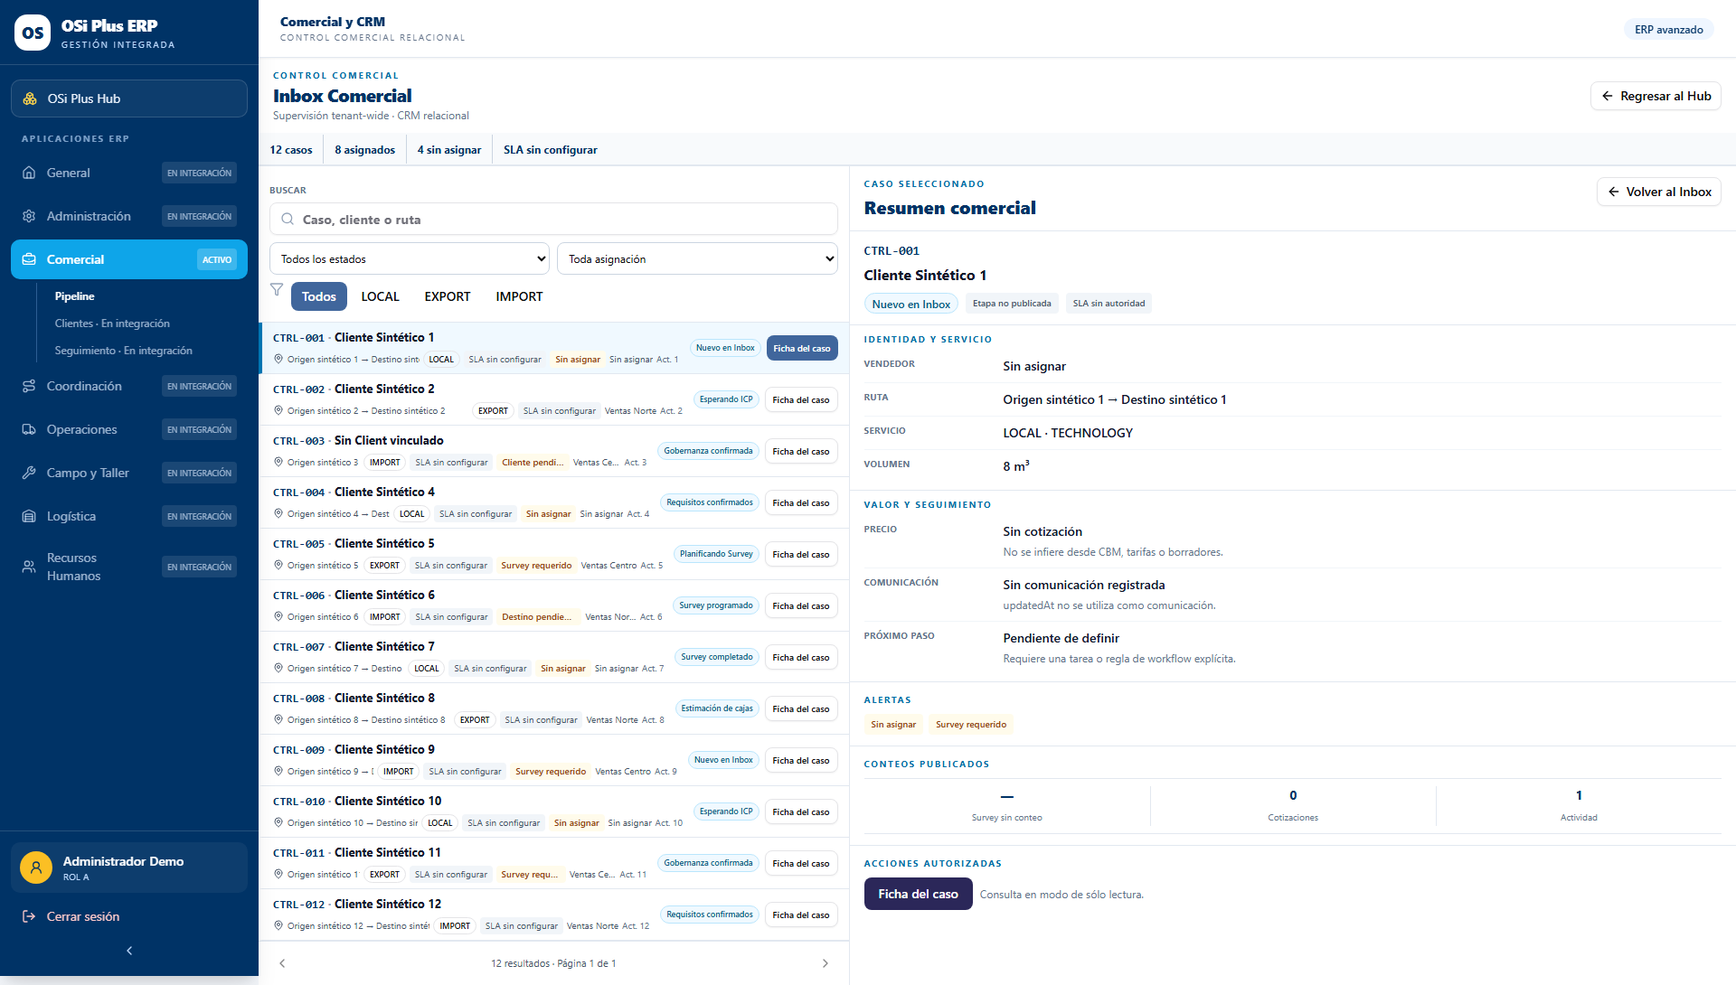
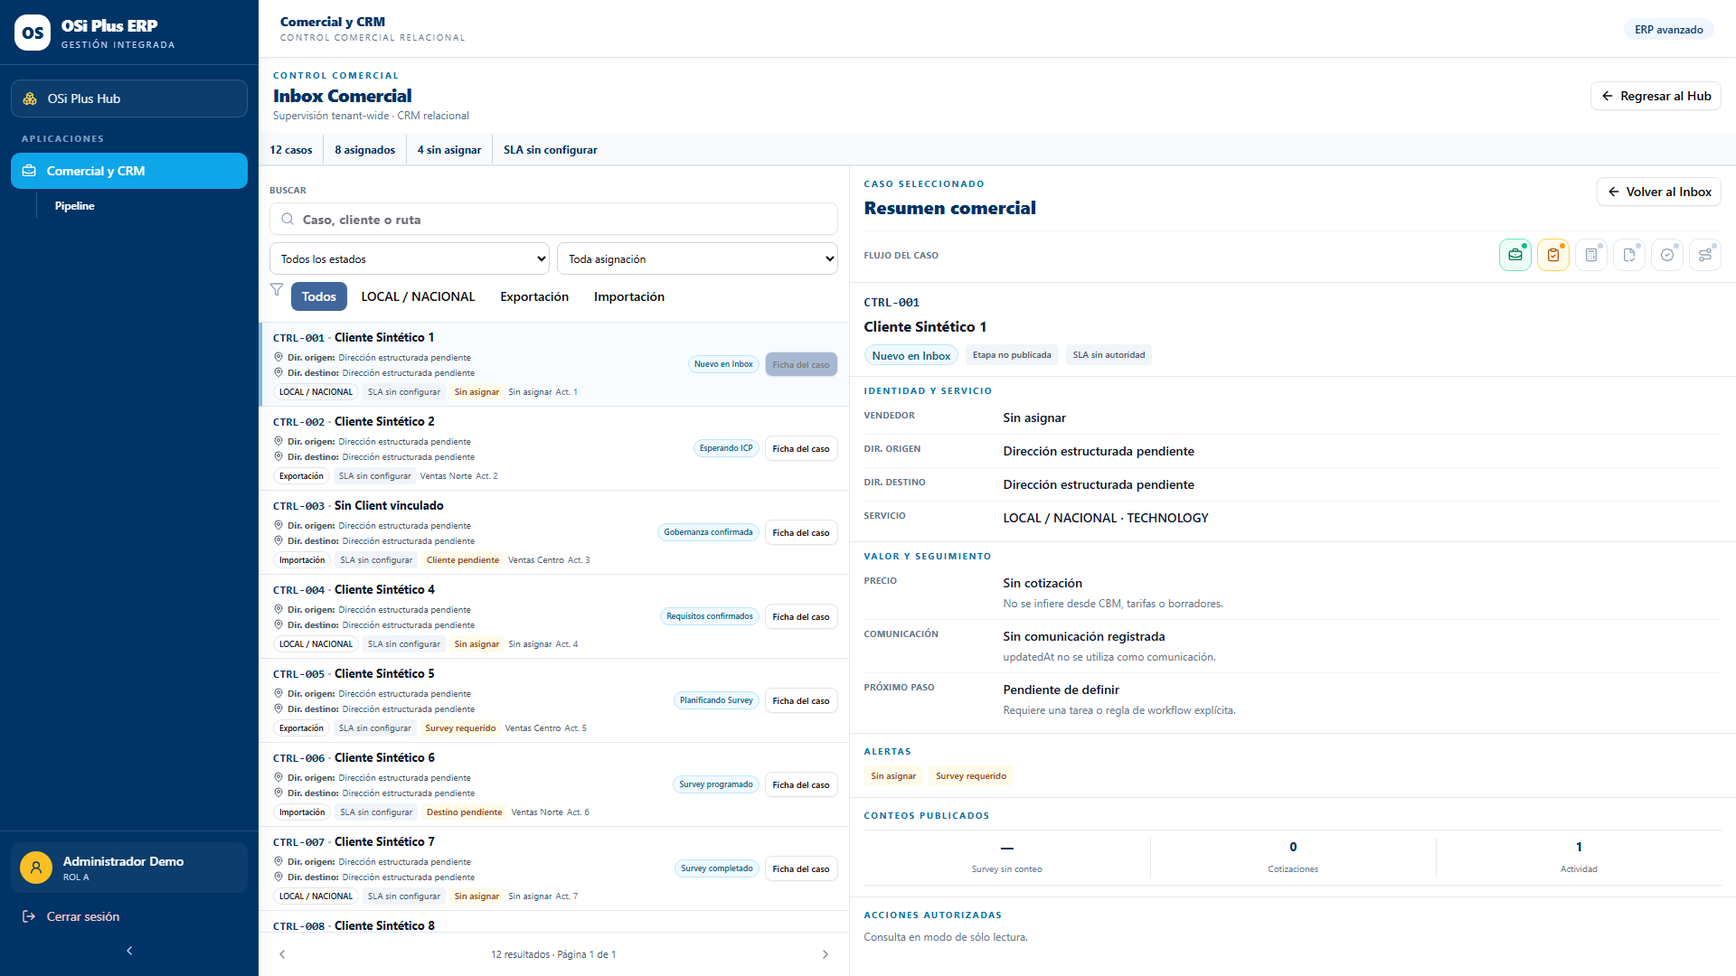
feat(crm): keep case summary fixed with progress stages

diff --git a/src/commercial-crm/CommercialInboxModule.tsx b/src/commercial-crm/CommercialInboxModule.tsx
@@ -1,5 +1,5 @@
 import { lazy, Suspense, useCallback, useEffect, useLayoutEffect, useMemo, useRef, useState } from "react";
-import { AlertCircle, ArrowLeft, BellRing, ChevronLeft, ChevronRight, Filter, MapPin, Pencil, Plus, Search, TriangleAlert } from "lucide-react";
+import { AlertCircle, ArrowLeft, BadgeCheck, BellRing, BriefcaseBusiness, Calculator, ChevronLeft, ChevronRight, ClipboardCheck, FileCheck2, Filter, MapPin, Pencil, Plus, Route, Search, TriangleAlert, type LucideIcon } from "lucide-react";
 import { Alert, AlertDescription, AlertTitle } from "@/components/ui/alert";
 import { Badge } from "@/components/ui/badge";
 import { Button } from "@/components/ui/button";
@@ -72,7 +72,6 @@ type AlertableCase = Readonly<{
   owner: unknown | null;
   requiresSurvey: boolean;
   destinationLocation: string | null;
-  estimatedCbm: number | null;
 }>;
 
 function factualAlerts(item: AlertableCase) {
@@ -81,12 +80,7 @@ function factualAlerts(item: AlertableCase) {
     !item.owner ? "Sin asignar" : null,
     item.requiresSurvey ? "Survey requerido" : null,
     !item.destinationLocation ? "Destino pendiente" : null,
-    item.estimatedCbm === null || item.estimatedCbm <= 0 ? "Volumen pendiente" : null,
   ].filter((value): value is string => Boolean(value));
-}
-
-function formatCbm(value: number | null) {
-  return value === null || value <= 0 ? "Pendiente de Survey o datos proporcionados" : `${new Intl.NumberFormat("es-DO", { maximumFractionDigits: 2 }).format(value)} m³`;
 }
 
 function SummaryStrip({ value, role }: { value: CrmPipelineSummary | null; role: string }) {
@@ -161,29 +155,71 @@ function SummaryRow({ label, value, note }: { label: string; value: string; note
   return <div className="grid gap-1 border-b border-slate-100 py-2 last:border-b-0 sm:grid-cols-[150px_minmax(0,1fr)]"><dt className="text-[10px] font-bold uppercase tracking-wide text-slate-500">{label}</dt><dd className="min-w-0 text-sm font-semibold text-slate-900"><span className="break-words">{value}</span>{note && <span className="mt-0.5 block text-xs font-normal leading-5 text-slate-500">{note}</span>}</dd></div>;
 }
 
-function CaseSummaryPanel({ state, mutationEnvironmentEnabled, mutationAccess, mutationApi, onClear, onReload }: {
+type ProgressTone = "complete" | "current" | "attention" | "pending";
+type ProgressStage = Readonly<{ label: string; state: string; tone: ProgressTone; icon: LucideIcon; count?: number }>;
+const STATUS_INDEX = Object.freeze(Object.fromEntries(PIPELINE_CASE_STATUSES.map((status, index) => [status, index])) as Record<PipelineCaseStatus, number>);
+const PROGRESS_TONE_CLASS: Record<ProgressTone, string> = {
+  complete: "border-emerald-300 bg-emerald-50 text-emerald-700",
+  current: "border-sky-400 bg-sky-50 text-sky-700 ring-2 ring-sky-100",
+  attention: "border-amber-300 bg-amber-50 text-amber-700",
+  pending: "border-slate-200 bg-white text-slate-400",
+};
+
+function reached(status: PipelineCaseStatus, checkpoint: PipelineCaseStatus) {
+  return STATUS_INDEX[status] >= STATUS_INDEX[checkpoint];
+}
+
+function progressStages(item: CrmPipelineCaseDetail): readonly ProgressStage[] {
+  const surveyComplete = reached(item.status, "SURVEY_COMPLETED");
+  const costingComplete = reached(item.status, "QUOTE_DRAFT");
+  const quoteComplete = item.quoteCount > 0;
+  const approved = ["WON", "APPROVED", "OPS_HANDOFF"].includes(item.status);
+  return [
+    { label: "Servicios", state: item.serviceType ? "Definido" : "Requiere definición", tone: item.serviceType ? "complete" : "attention", icon: BriefcaseBusiness },
+    { label: "Survey", state: !item.requiresSurvey ? "No requerido" : surveyComplete ? "Completado" : ["SURVEY_PLANNING", "SURVEY_SCHEDULED"].includes(item.status) ? "En curso" : "Requerido", tone: !item.requiresSurvey || surveyComplete ? "complete" : ["SURVEY_PLANNING", "SURVEY_SCHEDULED"].includes(item.status) ? "current" : "attention", icon: ClipboardCheck },
+    { label: "Costos", state: costingComplete ? "Confirmados" : item.status === "PRICING_IN_PROGRESS" ? "En preparación" : "Pendientes", tone: costingComplete ? "complete" : item.status === "PRICING_IN_PROGRESS" ? "current" : "pending", icon: Calculator },
+    { label: "Cotización", state: quoteComplete ? `${item.quoteCount} de 3 propuesta${item.quoteCount === 1 ? "" : "s"}` : ["QUOTE_DRAFT", "INTERNAL_REVIEW", "QUOTE_SENT", "NEGOTIATION"].includes(item.status) ? "En curso" : "Pendiente", tone: quoteComplete ? "complete" : ["QUOTE_DRAFT", "INTERNAL_REVIEW", "QUOTE_SENT", "NEGOTIATION"].includes(item.status) ? "current" : "pending", icon: FileCheck2, count: item.quoteCount || undefined },
+    { label: "Aprobación", state: approved ? "Aprobada" : ["QUOTE_SENT", "NEGOTIATION"].includes(item.status) ? "En decisión" : "Pendiente", tone: approved ? "complete" : ["QUOTE_SENT", "NEGOTIATION"].includes(item.status) ? "current" : "pending", icon: BadgeCheck },
+    { label: "Coordinación", state: item.status === "OPS_HANDOFF" ? "Entregada" : item.status === "APPROVED" ? "Lista para coordinar" : "Pendiente", tone: item.status === "OPS_HANDOFF" ? "complete" : item.status === "APPROVED" ? "current" : "pending", icon: Route },
+  ];
+}
+
+function CaseProgressHeader({ item, onOpenCase }: { item: CrmPipelineCaseDetail; onOpenCase(caseRef: string): void }) {
+  if (["LOST", "OPS_HANDOFF"].includes(item.status)) return null;
+  return <div data-testid="commercial-case-progress" className="flex min-w-0 items-center gap-1.5 overflow-x-auto" role="list" aria-label="Etapas del caso abierto">
+    {progressStages(item).map(({ label, state, tone, icon: Icon, count }) => <span key={label} role="listitem"><button type="button" title={`${label}: ${state}`} aria-label={`${label}: ${state}. Ver en la Ficha del Caso`} onClick={() => onOpenCase(item.caseRef)} className={`relative grid h-9 w-9 shrink-0 place-items-center rounded-lg border transition-colors hover:brightness-95 ${PROGRESS_TONE_CLASS[tone]}`}>
+        <Icon className="h-4 w-4" aria-hidden="true" />
+        <span className={`absolute right-1 top-1 h-1.5 w-1.5 rounded-full ${tone === "complete" ? "bg-emerald-500" : tone === "current" ? "bg-sky-500" : tone === "attention" ? "bg-amber-500" : "bg-slate-300"}`} aria-hidden="true" />
+        {count !== undefined && <span className="absolute -bottom-1 -right-1 min-w-4 rounded-full bg-[#003366] px-1 text-center text-[9px] font-black leading-4 text-white" aria-hidden="true">{count}</span>}
+      </button></span>)}
+  </div>;
+}
+
+function CaseSummaryPanel({ state, mutationEnvironmentEnabled, mutationAccess, mutationApi, onClear, onReload, onOpenCase }: {
   state: DetailState;
   mutationEnvironmentEnabled: boolean;
   mutationAccess: CrmCaseMutationUiAccess;
   mutationApi: CrmCaseMutationApi;
   onClear(): void;
   onReload(): void;
+  onOpenCase(caseRef: string): void;
 }) {
   const [editOpen, setEditOpen] = useState(false);
   const item = state.value;
   const alerts = item ? factualAlerts(item) : [];
   const canEdit = Boolean(item && mutationEnvironmentEnabled && !["APPROVED", "OPS_HANDOFF"].includes(item.status) && (mutationAccess.canUpdateAny || (mutationAccess.canUpdateOwn && item.owner?.isCurrentActor)));
   const initial = useMemo<CrmCaseFields | undefined>(() => item ? ({ clientRef: item.client?.clientRef || null, mode: item.mode || "LOCAL", serviceType: item.serviceType || "", customerType: (item.customerType || "L4_PERSONAL") as CrmCaseFields["customerType"], estimatedCbm: item.estimatedCbm || 0, requiresSurvey: item.requiresSurvey, surveyMethod: (item.surveyMethod || "NO_APLICA") as CrmCaseFields["surveyMethod"], originLocation: item.originLocation || "", destinationLocation: item.destinationLocation || "", destinationContracted: item.destinationContracted ?? true }) : undefined, [item]);
-  return <section data-testid="commercial-case-summary" className="min-h-full bg-white" aria-labelledby="case-summary-heading">
+  return <section data-testid="commercial-case-summary" className="h-full overflow-y-auto bg-white" aria-labelledby="case-summary-heading">
     <header className="flex flex-wrap items-start justify-between gap-3 border-b border-slate-200 px-4 py-3">
       <div><p className="text-[10px] font-bold uppercase tracking-[.18em] text-[#0070a8]">Caso seleccionado</p><h2 id="case-summary-heading" className="mt-1 text-xl font-black text-[#003366]">Resumen comercial</h2></div>
       <Button size="sm" variant="outline" onClick={onClear}><ArrowLeft />Volver al Inbox</Button>
+      {item && <div className="flex w-full items-center justify-between gap-3 border-t border-slate-100 pt-2"><p className="shrink-0 text-[10px] font-bold uppercase tracking-wide text-slate-500">Flujo del caso</p><CaseProgressHeader item={item} onOpenCase={onOpenCase} /></div>}
     </header>
     {state.loading && <div className="grid min-h-[40vh] place-items-center text-sm text-slate-500">Cargando resumen autorizado…</div>}
     {state.error && <Alert variant="destructive" role="alert" className="m-4"><AlertCircle /><AlertTitle>{state.error.code}</AlertTitle><AlertDescription>{commercialReadErrorCopy(state.error)}<Button className="mt-3" size="sm" variant="outline" onClick={onReload}>Reintentar lectura</Button></AlertDescription></Alert>}
     {item && <div className="divide-y divide-slate-200">
       <section className="px-4 py-3"><p className="font-mono text-sm font-black text-[#003366]">{item.caseCode}</p><p className="mt-1 text-base font-bold text-slate-900">{item.client?.displayName || "Sin Client vinculado"}</p><div className="mt-2 flex flex-wrap gap-2"><Badge data-status={item.status} variant="outline" className={statusClass(item.status)}>{STATUS_LABELS[item.status]}</Badge><span className="rounded bg-slate-100 px-2 py-1 text-[10px] font-semibold text-slate-600">Etapa no publicada</span><span className="rounded bg-slate-100 px-2 py-1 text-[10px] font-semibold text-slate-600">SLA sin autoridad</span></div></section>
-      <section className="px-4 py-2"><h3 className="text-[10px] font-bold uppercase tracking-[.16em] text-[#0070a8]">Identidad y servicio</h3><dl className="mt-1"><SummaryRow label="Vendedor" value={item.owner?.displayName || "Sin asignar"} /><SummaryRow label="Dir. origen" value={item.route?.origin?.compactAddress || "Dirección estructurada pendiente"} note={item.mode === "LOCAL" && item.route?.origin?.area === "INTERIOR" ? "⚠ Fuera de área METRO según clasificación publicada." : undefined} /><SummaryRow label="Dir. destino" value={item.route?.destination?.compactAddress || "Dirección estructurada pendiente"} note={item.mode === "LOCAL" && item.route?.destination?.area === "INTERIOR" ? "⚠ Fuera de área METRO según clasificación publicada." : undefined} /><SummaryRow label="Servicio" value={`${item.mode ? MODE_LABELS[item.mode] : "Modo no disponible"} · ${item.serviceType || "Tipo no disponible"}`} /><SummaryRow label="Volumen" value={formatCbm(item.estimatedCbm)} /></dl></section>
+      <section className="px-4 py-2"><h3 className="text-[10px] font-bold uppercase tracking-[.16em] text-[#0070a8]">Identidad y servicio</h3><dl className="mt-1"><SummaryRow label="Vendedor" value={item.owner?.displayName || "Sin asignar"} /><SummaryRow label="Dir. origen" value={item.route?.origin?.compactAddress || "Dirección estructurada pendiente"} note={item.mode === "LOCAL" && item.route?.origin?.area === "INTERIOR" ? "⚠ Fuera de área METRO según clasificación publicada." : undefined} /><SummaryRow label="Dir. destino" value={item.route?.destination?.compactAddress || "Dirección estructurada pendiente"} note={item.mode === "LOCAL" && item.route?.destination?.area === "INTERIOR" ? "⚠ Fuera de área METRO según clasificación publicada." : undefined} /><SummaryRow label="Servicio" value={`${item.mode ? MODE_LABELS[item.mode] : "Modo no disponible"} · ${item.serviceType || "Tipo no disponible"}`} /></dl></section>
       <section className="px-4 py-2"><h3 className="text-[10px] font-bold uppercase tracking-[.16em] text-[#0070a8]">Valor y seguimiento</h3><dl className="mt-1"><SummaryRow label="Precio" value="Sin cotización" note="No se infiere desde CBM, tarifas o borradores." /><SummaryRow label="Comunicación" value="Sin comunicación registrada" note="updatedAt no se utiliza como comunicación." /><SummaryRow label="Próximo paso" value="Pendiente de definir" note="Requiere una tarea o regla de workflow explícita." /></dl></section>
       <section className="px-4 py-3"><h3 className="text-[10px] font-bold uppercase tracking-[.16em] text-[#0070a8]">Alertas</h3><div className="mt-2 flex flex-wrap gap-1.5">{alerts.length ? alerts.map((alert) => <span key={alert} className="rounded bg-amber-50 px-2 py-1 text-[10px] font-semibold text-amber-800">{alert}</span>) : <span className="rounded bg-slate-100 px-2 py-1 text-xs font-semibold text-slate-600">Sin alertas deterministas · SLA no calculable</span>}</div></section>
       <section className="px-4 py-3"><h3 className="text-[10px] font-bold uppercase tracking-[.16em] text-[#0070a8]">Conteos publicados</h3><div className="mt-2 grid grid-cols-3 divide-x divide-slate-200 border-y border-slate-200 py-2 text-center"><div><strong className="block text-sm text-[#003366]">—</strong><span className="text-[10px] text-slate-500">Survey sin conteo</span></div><div><strong className="block text-sm text-[#003366]">{item.quoteCount}</strong><span className="text-[10px] text-slate-500">Cotizaciones</span></div><div><strong className="block text-sm text-[#003366]">{item.eventCount}</strong><span className="text-[10px] text-slate-500">Actividad</span></div></div></section>
@@ -266,6 +302,6 @@ export default function CommercialInboxModule({ authorization, mutationAccess, s
     {summaryError && <Alert variant="destructive" className="m-3"><AlertCircle /><AlertTitle>{summaryError.code}</AlertTitle><AlertDescription>{commercialReadErrorCopy(summaryError)}</AlertDescription></Alert>}
     {fullCaseWorkspace
       ? <main className="min-h-0 flex-1 bg-white" data-testid="commercial-full-case-workspace"><Suspense fallback={<div className="grid min-h-[50vh] place-items-center text-sm font-semibold text-slate-500">Cargando Ficha del Caso…</div>}><CommercialCaseDetail state={detail} authorization={authorization} servicesAccess={servicesAccess} logisticsAccess={logisticsAccess} logisticsEnabled={logisticsEnabled} costingAccess={costingAccess} costingEnabled={costingEnabled} quoteAccess={quoteAccess} quoteEnabled={quoteEnabled} surveyEnabled={surveyEnabled} surveySchedulingAccess={surveySchedulingAccess} commercialRelationshipsEnabled={commercialRelationshipsEnabled} commercialRelationshipsAccess={commercialRelationshipsAccess} communicationsEnabled={communicationsEnabled} communicationsAccess={communicationsAccess} clientTemporaryAccessEnabled={clientTemporaryAccessEnabled} clientTemporaryAccess={clientTemporaryAccess} onNavigate={onNavigate} onUnauthorized={onUnauthorized} onOpenNavigation={onOpenNavigation} onBack={onReturnToInbox} onReload={() => setDetailRefresh((value) => value + 1)} /></Suspense></main>
-      : <div data-testid="commercial-master-detail-layout" className="min-h-0 flex-1 xl:grid" style={{ gridTemplateColumns: "clamp(560px, 40%, 720px) minmax(0, 1fr)" }}><div className={selectedCaseRef ? "hidden xl:block" : "block"}>{queue}</div><main className={selectedCaseRef ? "block min-w-0 bg-white" : "hidden min-w-0 bg-white xl:block"}>{selectedCaseRef ? <CaseSummaryPanel state={detail} mutationEnvironmentEnabled={mutationEnvironmentEnabled} mutationAccess={mutationAccess} mutationApi={mutationApi} onClear={() => setSelectedCaseRef(null)} onReload={() => { setDetailRefresh((value) => value + 1); setRefresh((value) => value + 1); }} /> : <SupervisionPanel summary={summary} role={role} />}</main></div>}
+      : <div data-testid="commercial-master-detail-layout" className="min-h-0 flex-1 xl:grid" style={{ gridTemplateColumns: "clamp(560px, 40%, 720px) minmax(0, 1fr)" }}><div className={selectedCaseRef ? "hidden xl:block" : "block"}>{queue}</div><main className={selectedCaseRef ? "block min-w-0 bg-white" : "hidden min-w-0 bg-white xl:block"}>{selectedCaseRef ? <CaseSummaryPanel state={detail} mutationEnvironmentEnabled={mutationEnvironmentEnabled} mutationAccess={mutationAccess} mutationApi={mutationApi} onClear={() => setSelectedCaseRef(null)} onOpenCase={openFullCase} onReload={() => { setDetailRefresh((value) => value + 1); setRefresh((value) => value + 1); }} /> : <SupervisionPanel summary={summary} role={role} />}</main></div>}
   </section>;
 }

diff --git a/tests/v17-commercial-crm/commercial-inbox.spec.ts b/tests/v17-commercial-crm/commercial-inbox.spec.ts
@@ -282,17 +282,29 @@ test("seleccionar una fila abre el resumen y Ficha del caso usa el workspace com
   await expect(page.getByText("Cotizaciones", { exact: true })).toBeVisible();
   await expect(page.getByText("Actividad", { exact: true })).toBeVisible();
   await expect(page.getByText("updatedAt no se utiliza como comunicación.", { exact: true })).toBeVisible();
+  const progress = page.getByTestId("commercial-case-progress");
+  await expect(progress).toBeVisible();
+  await expect(progress.getByRole("listitem")).toHaveCount(6);
+  await expect(progress.getByRole("button", { name: /Servicios:/ })).toBeVisible();
+  await expect(progress.getByRole("button", { name: /Survey:/ })).toBeVisible();
+  await expect(progress.getByRole("button", { name: /Cotización:/ })).toBeVisible();
+  await expect(page.getByTestId("commercial-case-summary").getByText("Volumen", { exact: true })).toHaveCount(0);
   await expect(page.getByText("Abrir ficha", { exact: true })).toHaveCount(0);
   if (testInfo.project.name.endsWith("desktop")) await expect(page.getByRole("region", { name: "Cola comercial" })).toBeVisible();
   else await expect(page.getByRole("region", { name: "Cola comercial" })).toBeHidden();
 
   await showCommercialQueue(page);
-  await page.evaluate(() => globalThis.scrollTo(0, Math.min(180, document.documentElement.scrollHeight - innerHeight)));
+  const queueViewport = page.getByTestId("commercial-queue-scroll");
+  await queueViewport.evaluate((element) => { element.scrollTop = Math.min(180, element.scrollHeight - element.clientHeight); });
   await fullCaseAction.scrollIntoViewIfNeeded();
   await expect(fullCaseAction).toBeVisible();
   await expect(fullCaseAction).toBeInViewport();
   const scrollBefore = await page.evaluate(() => globalThis.scrollY);
-  if (testInfo.project.name.endsWith("desktop")) expect(scrollBefore).toBeGreaterThan(0);
+  const queueScrollBefore = await queueViewport.evaluate((element) => element.scrollTop);
+  if (testInfo.project.name.endsWith("desktop")) {
+    expect(scrollBefore).toBe(0);
+    expect(queueScrollBefore).toBeGreaterThan(0);
+  }
   await fullCaseAction.click();
   await expect(page).toHaveURL(new RegExp(`/commercial/cases/${rows[10].caseRef}$`));
   await expect(page.getByTestId("commercial-full-case-workspace")).toBeVisible();
@@ -310,7 +322,8 @@ test("seleccionar una fila abre el resumen y Ficha del caso usa el workspace com
   await expect(row).toHaveAttribute("data-selected", "true");
   await expect(rowSelector).toHaveAttribute("aria-pressed", "true");
   if (testInfo.project.name.endsWith("desktop")) {
-    await expect.poll(() => page.evaluate(() => globalThis.scrollY)).toBe(scrollBefore);
+    await expect.poll(() => page.evaluate(() => globalThis.scrollY)).toBe(0);
+    await expect.poll(() => queueViewport.evaluate((element) => element.scrollTop)).toBe(queueScrollBefore);
   } else {
     // The selected summary is shorter than the queue, so native scrolling clamps at its end.
     const maxScroll = await page.evaluate(() => {

diff --git a/tests/v17-erp-crm-foundation/compact-control-evidence.spec.ts b/tests/v17-erp-crm-foundation/compact-control-evidence.spec.ts
@@ -52,7 +52,7 @@ test("evidencia sanitizada del control comercial compacto", async ({ page }, tes
   const queue = page.getByRole("region", { name: "Cola comercial" });
   if (!mobile) {
     const visibleRows = await page.getByRole("button", { name: /Ficha del caso/ }).evaluateAll((buttons) => buttons.filter((button) => button.getBoundingClientRect().bottom <= window.innerHeight).length);
-    expect(visibleRows).toBeGreaterThanOrEqual(10);
+    expect(visibleRows).toBeGreaterThanOrEqual(8);
     const queueBox = await queue.boundingBox();
     expect(queueBox?.width).toBeGreaterThanOrEqual(559);
     expect(queueBox?.width).toBeLessThanOrEqual(721);
@@ -67,7 +67,13 @@ test("evidencia sanitizada del control comercial compacto", async ({ page }, tes
   const firstRow = page.getByTestId("commercial-queue-item").first();
   await firstRow.getByRole("button", { name: /Seleccionar caso/ }).click();
   await expect(page.getByTestId("commercial-case-summary")).toBeVisible();
+  await expect(page.getByTestId("commercial-case-progress").getByRole("button")).toHaveCount(6);
+  await expect(page.getByTestId("commercial-case-summary").getByText("Volumen", { exact: true })).toHaveCount(0);
   await expect(firstRow).toHaveAttribute("data-selected", "true");
+  if (!mobile) {
+    await expect.poll(() => page.evaluate(() => globalThis.scrollY)).toBe(0);
+    expect(await page.getByTestId("commercial-queue-scroll").evaluate((element) => element.scrollHeight > element.clientHeight)).toBe(true);
+  }
   await page.screenshot({ path: resolve(EVIDENCE, mobile ? "06b-flujo-movil-resumen.png" : "02-caso-seleccionado-resumen.png"), fullPage: true });
   if (!mobile) await firstRow.getByRole("button", { name: /Ficha del caso/ }).screenshot({ path: resolve(EVIDENCE, "03-accion-ficha-del-caso.png") });
   await firstRow.getByRole("button", { name: /Ficha del caso/ }).click();

diff --git a/src/commercial-crm/CommercialCaseDetail.tsx b/src/commercial-crm/CommercialCaseDetail.tsx
@@ -73,7 +73,7 @@ function CommercialCaseWorkspace({ state, authorization, servicesAccess, logisti
   const [communicationTarget, setCommunicationTarget] = useState<CommunicationTarget>(CASE_COMMUNICATIONS);
   const communicationsRegion = useRef<HTMLElement>(null);
   const item = state.value;
-  const alerts = item ? [!item.client ? "Cliente receptor pendiente" : null, !item.owner ? "Caso sin asignar" : null, item.requiresSurvey ? "Survey requerido" : null, !item.route?.destination ? "Destino estructurado pendiente" : null, item.estimatedCbm === null || item.estimatedCbm <= 0 ? "Volumen pendiente" : null].filter((value): value is string => Boolean(value)) : [];
+  const alerts = item ? [!item.client ? "Cliente receptor pendiente" : null, !item.owner ? "Caso sin asignar" : null, item.requiresSurvey ? "Survey requerido" : null, !item.route?.destination ? "Destino estructurado pendiente" : null].filter((value): value is string => Boolean(value)) : [];
   const servicesEnabled = isCrmServicesUiEnabled() && servicesAccess.canCaseView;
   const transportAccess = logisticsEnabled && costingEnabled ? resolveTransportUiAccess(logisticsAccess, costingAccess) : undefined;
   const tabs = TABS.filter(([value]) => (value !== "SERVICES" || servicesEnabled) && (value !== "SURVEY" || surveyEnabled && surveySchedulingAccess.canView) && (value !== "COSTING" || costingEnabled && costingAccess.canView) && (value !== "QUOTE" || quoteEnabled && quoteAccess.canView));

diff --git a/src/index.css b/src/index.css
@@ -89,6 +89,23 @@
   }
 }
 
+@media (min-width: 1280px) {
+  [data-testid="commercial-crm-inbox"]:has([data-testid="commercial-master-detail-layout"]) {
+    height: calc(100vh - 4rem);
+    min-height: 0;
+    overflow: hidden;
+  }
+
+  [data-testid="commercial-master-detail-layout"],
+  [data-testid="commercial-master-detail-layout"] > div,
+  [data-testid="commercial-master-detail-layout"] > main,
+  [data-testid="commercial-master-detail-layout"] [aria-label="Cola comercial"] {
+    height: 100%;
+    min-height: 0;
+    overflow: hidden;
+  }
+}
+
 @layer base {
   * {
     @apply border-border;
